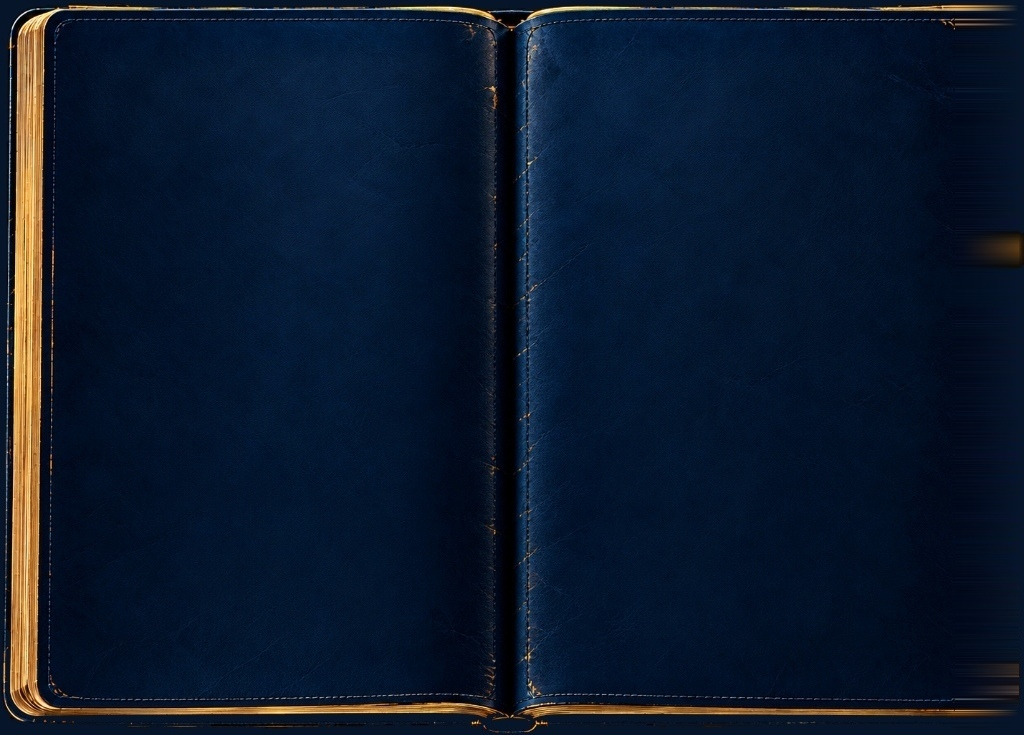
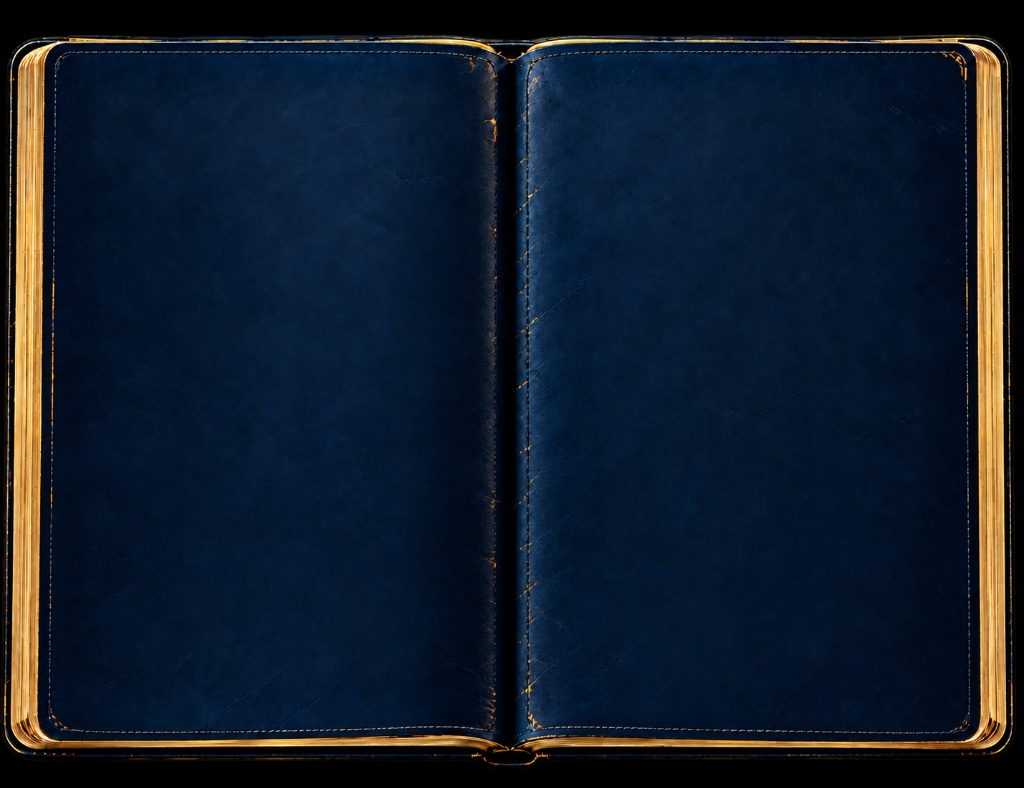
feat(ledger): install clean no-alpha-bar backgrounds and anchor alpha tabs firmly to book without separation

Changed region(s): [[0.0, 0.0, 1.0, 1.0], [0.5, 0.5388, 0.5312, 0.5687]]

diff --git a/client/src/components/contact/ledger/ContactsLedgerView.tsx b/client/src/components/contact/ledger/ContactsLedgerView.tsx
@@ -1056,7 +1056,7 @@ export default function ContactsLedgerView({
           {/* CUSTOM UI ALPHABET THUMB INDEX TABS                                 */}
           {/* 100% UI component: decoupled from background, scales dynamically   */}
           {/* ═══════════════════════════════════════════════════════════════════ */}
-          <div className="w-[6%] lg:w-[5.4%] xl:w-[5%] h-full pt-[4.2%] pb-[3.6%] pr-1 sm:pr-1.5 flex flex-col items-stretch justify-between z-20 select-none gap-[1px]">
+          <div className="w-[5.6%] lg:w-[5.0%] xl:w-[4.6%] h-full pt-[4.2%] pb-[3.6%] pr-1 sm:pr-1.5 flex flex-col items-stretch justify-between z-20 select-none gap-[1px]">
             {ALPHABET.map((letter) => {
               const isHome = letter === "HOME";
               const isSelected =
@@ -1083,16 +1083,18 @@ export default function ContactsLedgerView({
                     setMobileTab("directory");
                   }}
                   className={cn(
-                    "w-full flex-1 flex items-center justify-center transition-all duration-150 cursor-pointer font-serif select-none relative group",
-                    // Shape: Flat left edge attached to book, curved die-cut right edge protruding out
+                    "w-full flex-1 flex items-center justify-center transition-colors duration-150 cursor-pointer font-serif select-none relative group",
+                    // Shape: Flat left edge attached directly to the book, curved die-cut right edge
                     "rounded-l-none rounded-r-md sm:rounded-r-lg border-y border-r border-l-0 text-[10px] sm:text-[11px] xl:text-[12px]",
+                    // Seam shadow on the left edge so tab appears naturally bound under the page
+                    "before:absolute before:inset-y-0 before:left-0 before:w-[2px] before:bg-black/30 before:pointer-events-none",
                     isSelected
                       ? isLight
-                        ? "bg-gradient-to-r from-[#D4AF37] via-[#E5BF65] to-[#B89230] text-[#1F1202] font-black border-[#5E420C] shadow-[0_2px_8px_rgba(94,66,12,0.35)] translate-x-1 sm:translate-x-1.5 z-30 scale-105"
-                        : "bg-gradient-to-r from-[#FFE8B3] via-[#F5B544] to-[#C78F2E] text-[#1A0F02] font-black border-[#FFF2D0] shadow-[0_0_14px_rgba(245,181,68,0.7),inset_0_1px_1px_rgba(255,255,255,0.8)] translate-x-1 sm:translate-x-1.5 z-30 scale-105"
+                        ? "bg-gradient-to-r from-[#D4AF37] via-[#E5BF65] to-[#B89230] text-[#1F1202] font-black border-[#5E420C] shadow-[0_2px_10px_rgba(94,66,12,0.4),inset_0_1px_1px_rgba(255,255,255,0.8)] z-30"
+                        : "bg-gradient-to-r from-[#FFE8B3] via-[#F5B544] to-[#C78F2E] text-[#1A0F02] font-black border-[#FFF2D0] shadow-[0_0_14px_rgba(245,181,68,0.75),inset_0_1px_1px_rgba(255,255,255,0.9)] z-30"
                       : isLight
-                      ? "bg-[#EFE4CE] hover:bg-[#FFF8EC] border-[#C4B18B] text-[#3B2506] hover:text-black hover:translate-x-0.5 hover:shadow-xs shadow-[inset_0_1px_0_rgba(255,255,255,0.6)]"
-                      : "bg-[#091D38] hover:bg-[#12335E] border-[#1E4377] text-[#F3E5CC] hover:text-white hover:translate-x-0.5 hover:shadow-xs shadow-[inset_0_1px_0_rgba(255,255,255,0.1)] drop-shadow-[0_1px_2px_rgba(0,0,0,0.85)]"
+                      ? "bg-[#EFE4CE] hover:bg-[#FFF8EC] border-[#C4B18B] text-[#3B2506] hover:text-black shadow-[inset_0_1px_0_rgba(255,255,255,0.6)]"
+                      : "bg-[#091D38] hover:bg-[#12335E] border-[#1E4377] text-[#F3E5CC] hover:text-white shadow-[inset_0_1px_0_rgba(255,255,255,0.1)] drop-shadow-[0_1px_2px_rgba(0,0,0,0.85)]"
                   )}
                   title={
                     isHome
@@ -1119,9 +1121,9 @@ export default function ContactsLedgerView({
                     </span>
                   )}
 
-                  {/* Active Indicator Micro-pip on curved right edge */}
+                  {/* Active Indicator Micro-pip inside right edge */}
                   {isSelected && (
-                    <span className="absolute -right-0.5 top-1/2 -translate-y-1/2 w-1.5 h-1.5 rounded-full bg-[#1A0F02] shadow-xs pointer-events-none" />
+                    <span className="absolute right-1 top-1/2 -translate-y-1/2 w-1.5 h-1.5 rounded-full bg-[#1A0F02]/80 shadow-xs pointer-events-none" />
                   )}
                 </button>
               );
